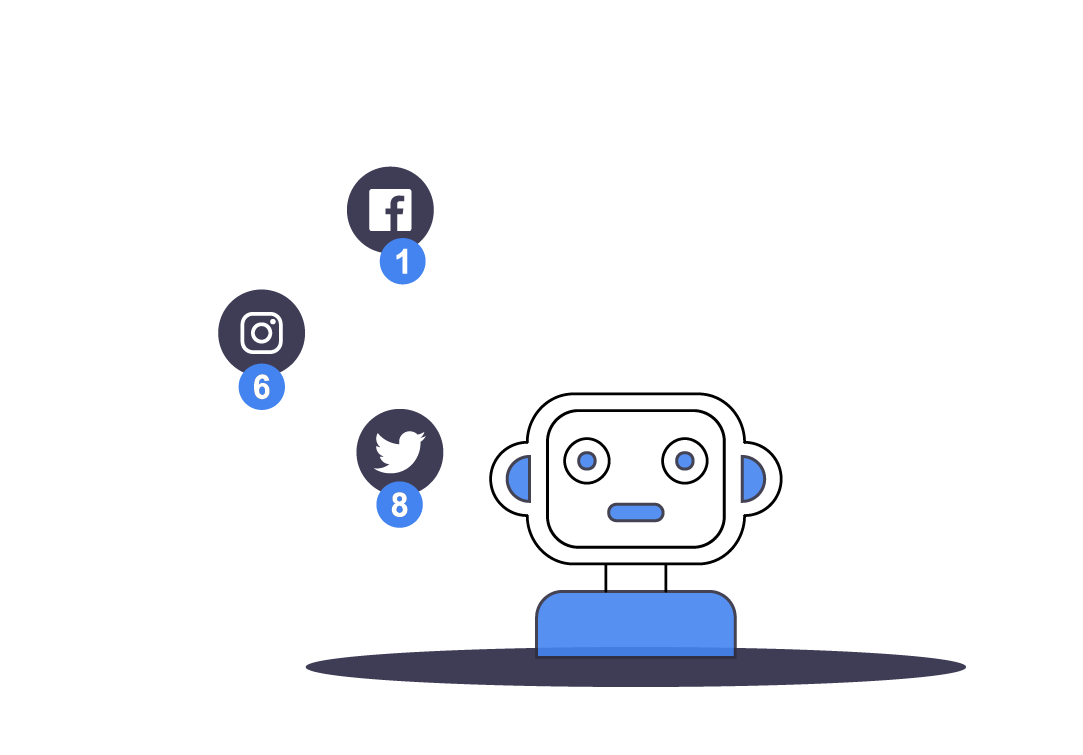
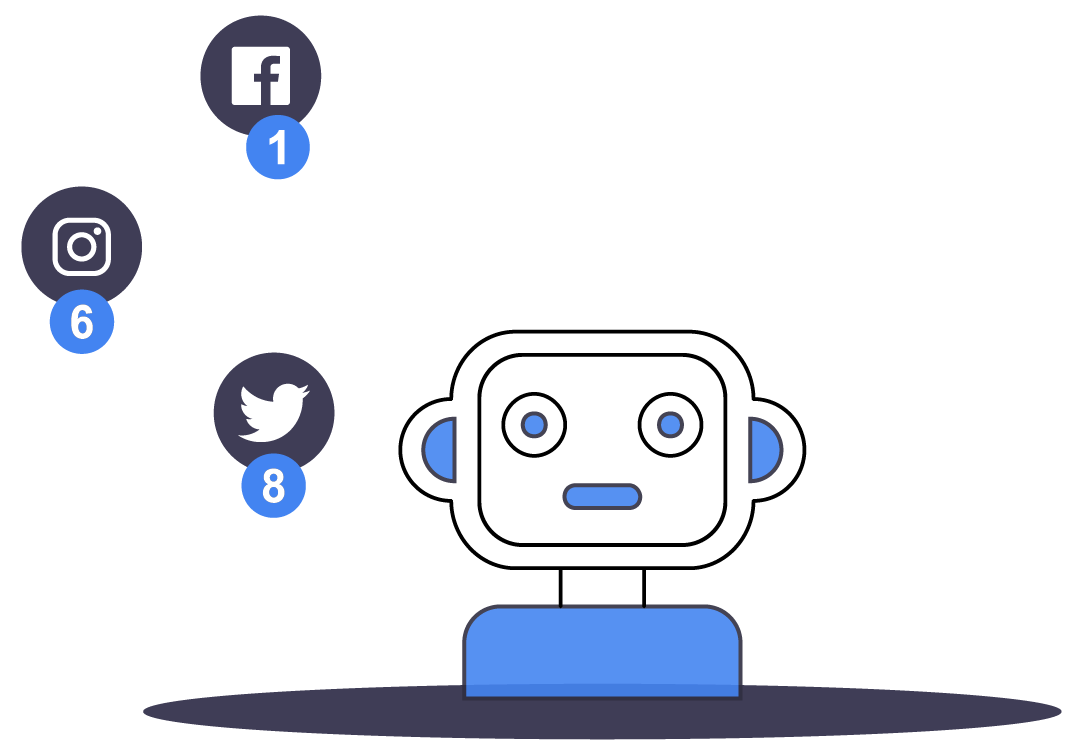
footer img fix

diff --git a/index.html b/index.html
@@ -534,7 +534,7 @@
                         />
                     </g>
                 </svg>-->
-                <img src="src/img/footerIllustration.png" style="max-width: 100%;" alt="footerIllustration">
+                <img src="src/img/footerIllustration.png" style="max-width: 80%;" alt="footerIllustration">
             </div>
             <div class="col-12 col-lg-7 px-0 px-md-5">
                 <h2 class="stip-h1 lang" key="learnMoreTitle">Vuoi saperne di più?</h2>

diff --git a/platform.html b/platform.html
@@ -423,7 +423,7 @@
                         />
                     </g>
                 </svg>-->
-                <img src="src/img/footerIllustration.png" style="max-width: 100%;" alt="footerIllustration">
+                <img src="src/img/footerIllustration.png" style="max-width: 80%;" alt="footerIllustration">
             </div>
             <div class="col-12 col-lg-7 px-0 px-md-5">
                 <h2 class="stip-h1 lang" key="learnMoreTitle">Vuoi saperne di più?</h2>
